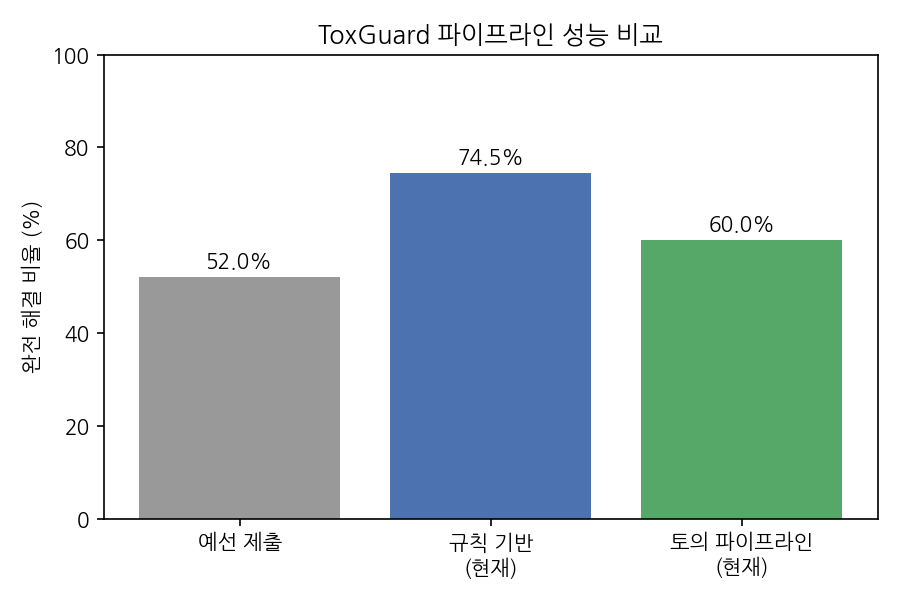
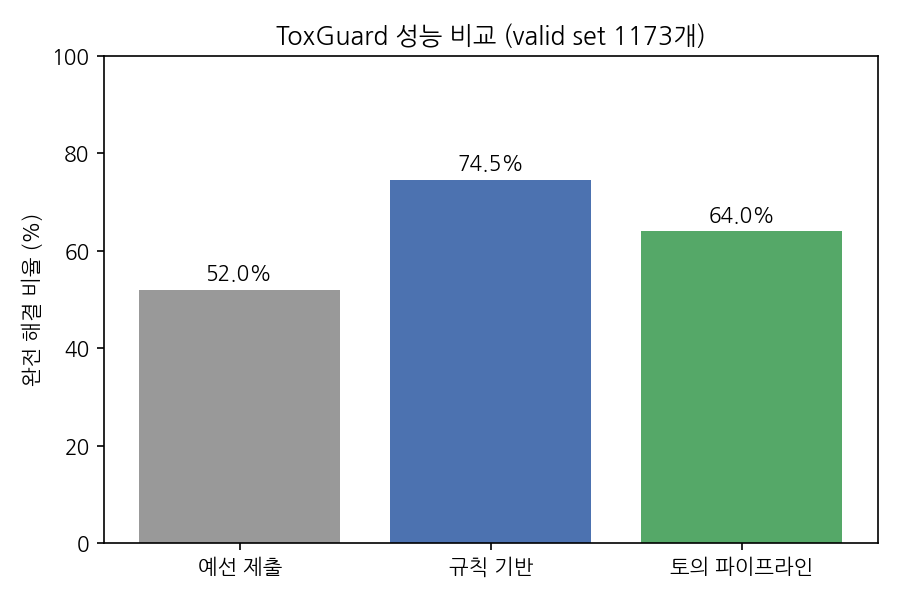
Update debate-pipeline figure to full-valid-set 64.0% across docs, showcase notebook and chart; record unverified status of conservatism explanation

diff --git a/docs/toxguard_summary_report.md b/docs/toxguard_summary_report.md
@@ -39,7 +39,7 @@ RDKit 규칙 기반 독성구조(toxicophore) 진단과 LLM 기반 검증을 결
 |---|---|
 | 공모전 예선 제출 | 52.0% |
 | 규칙 기반 파이프라인 (valid set 1173개) | 74.5% |
-| LLM 토의 포함 파이프라인 (표본 200개) | 약 60% |
+| LLM 토의 포함 파이프라인 (valid set 1173개) | 64.0% |
 
 토의 파이프라인의 수치(약 59~60%, 200개 표본에서 두 번 재현)가 규칙 기반보다 낮다.
 같은 표본에서 규칙기반은 성공했지만 토의 모드에서 실패한 21건을 분석한 결과,
@@ -62,7 +62,7 @@ RDKit 규칙 기반 독성구조(toxicophore) 진단과 LLM 기반 검증을 결
   LLM이 우세해 보였던 격차의 상당 부분이 실은 규칙기반 엔진 자체의
   재시도 로직 부재 때문이었음을 발견하고 수정
 - **최근 재발견 사례**: 최종 수치를 재검증하는 과정에서 완전해결
-  비율이 예상(67~70%)보다 낮게(약 60%) 나온 원인을 추적한 결과,
+  비율이 예전 기록(67% 안팎)보다 낮게(1173개 전체 64.0%) 나온 원인을 추적한 결과,
   다중문제 처리 순서를 정하는 그리디 로직이 LLM 토의 모드에서는
   완전히 무시되고 있던 구조적 결함을 발견해 수정. 수정 후에도 격차가 남았다. 같은 200개 표본에서 규칙기반은 성공했으나 토의 모드에서 실패한 21건 중 14건은 LLM의 치환 보류, 6건은 critic 반려, 1건은 다른 원인이었다. 이 LLM 판단의 타당성은 아직 검증하지 못했다
 

diff --git a/docs/progress.md b/docs/progress.md
@@ -26,7 +26,7 @@ _최종 업데이트: 노트북 62 완료 시점_
 - 최소 1단계 개선: 72%
 
 valid set(1173개, 최신 코드)에서는 완전해결 규칙기반 74.5%,
-토의 파이프라인 67~70%(실행 간 변동) — 자세한 내용은
+토의 파이프라인 64.0%(751/1173, 노트북 69 재측정) — 자세한 내용은
 docs/final_valid_set_comparison.md, docs/CHANGELOG.md 참고.
 
 ## 프로젝트 단계
